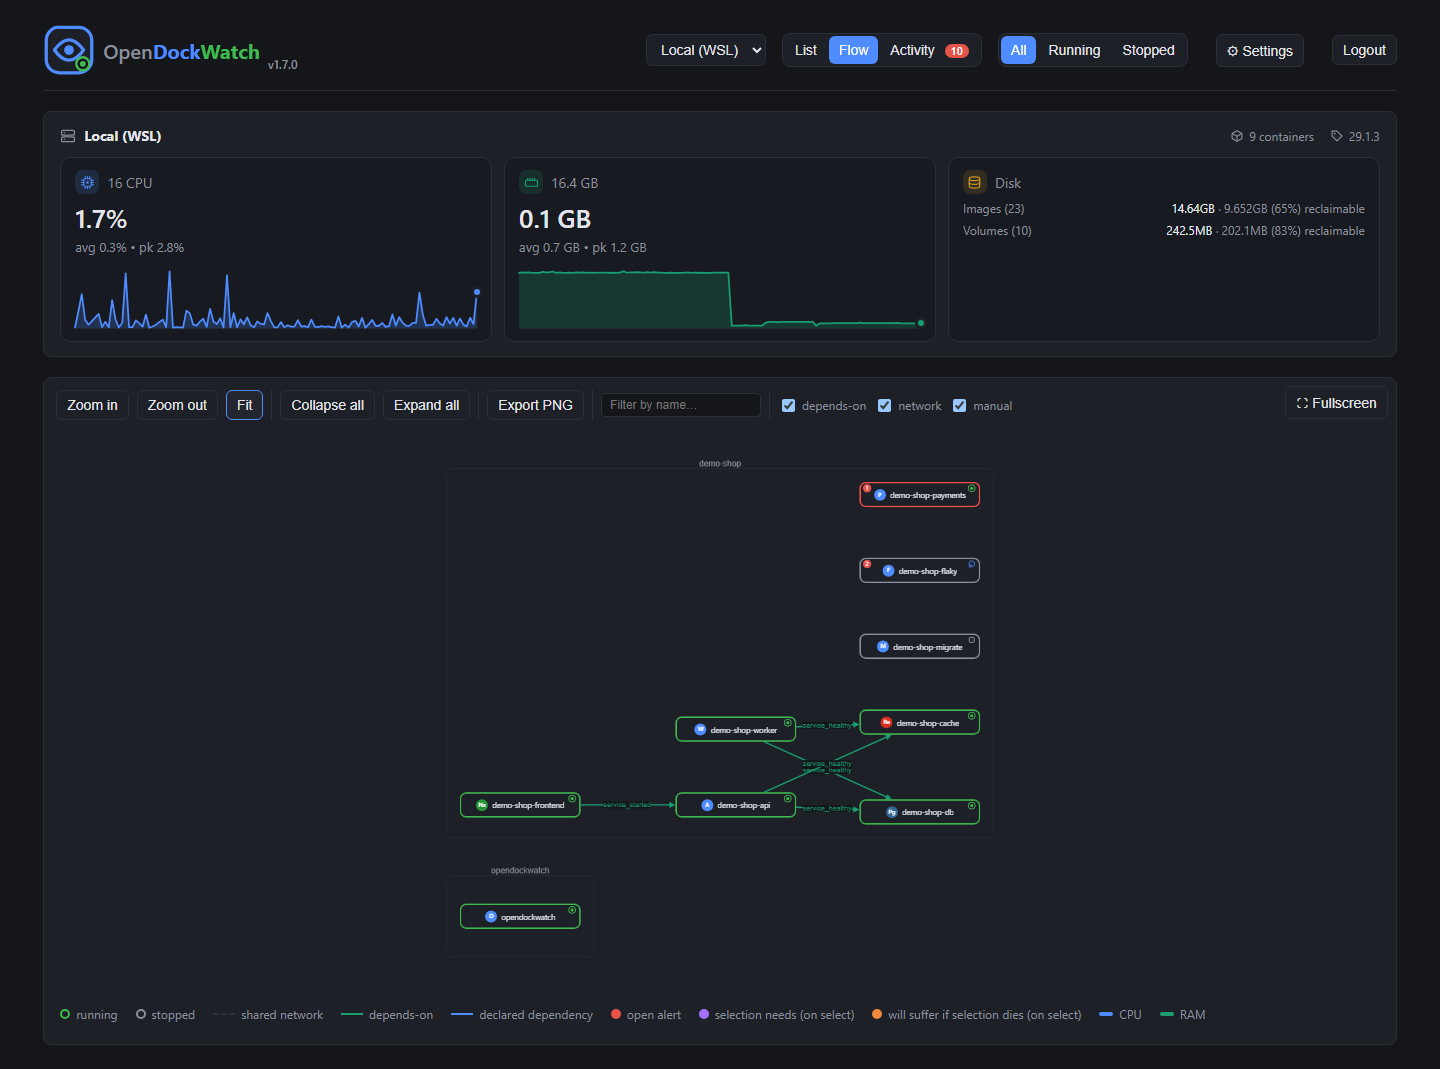
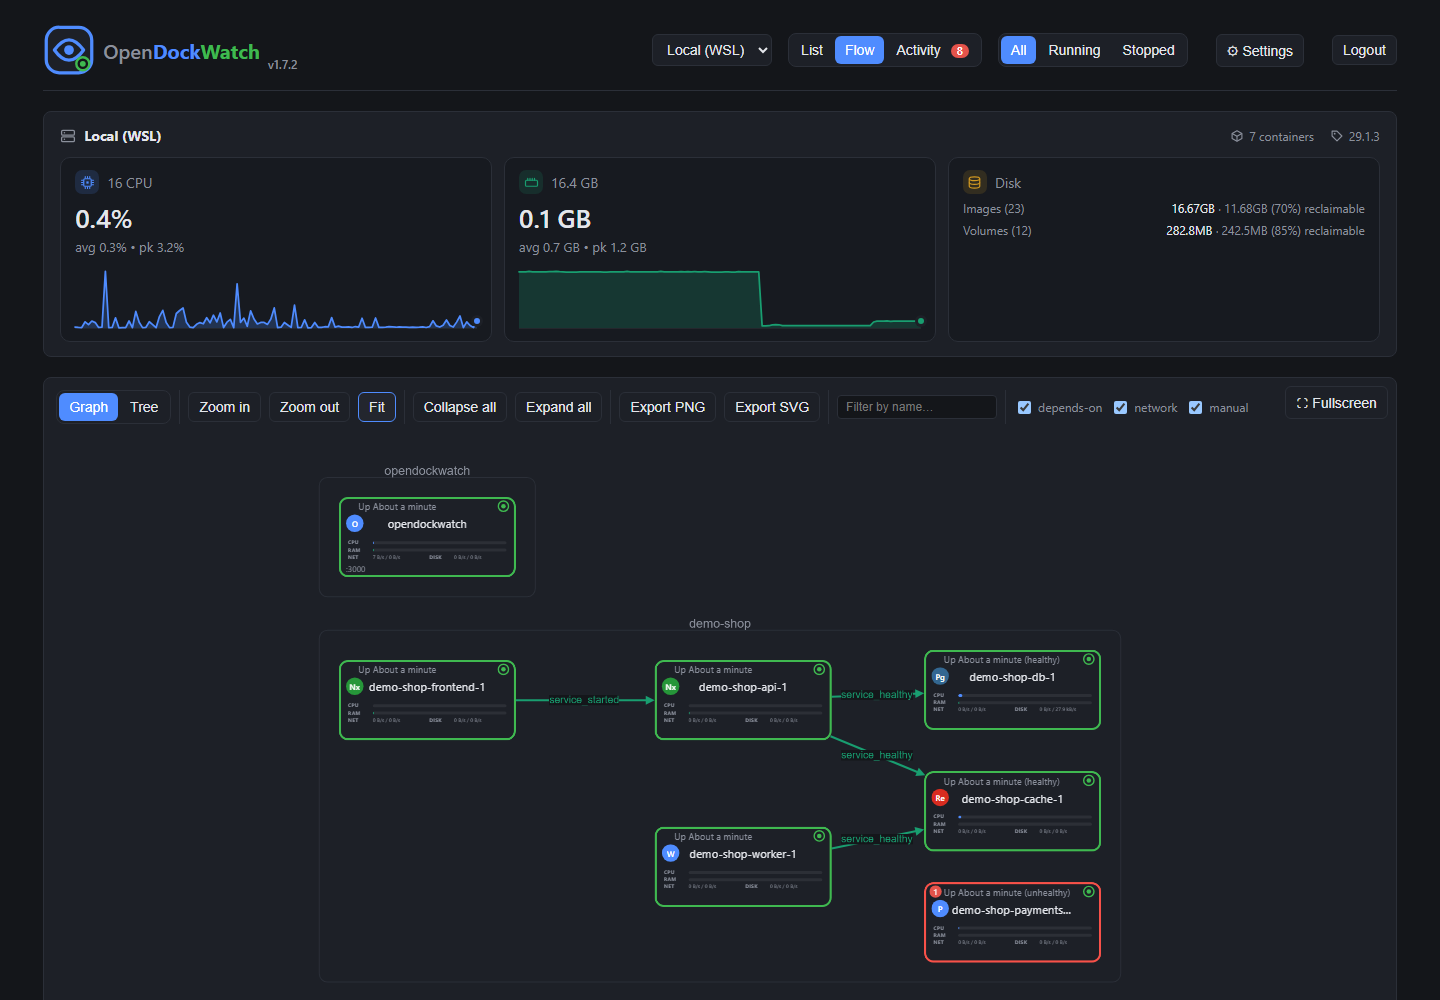
Refresh Flow view screenshots (multi-service demo stack) and update DOCKERHUB.md to match the README's SVG export and Tree mode feature descriptions. Add a tree-view screenshot to both docs.

diff --git a/README.md b/README.md
@@ -5,13 +5,16 @@ A small self-hosted Docker dashboard: containers grouped by Compose project, CPU
 ## Features
 
 - **List view** — containers grouped by `docker compose` project (collapsible), with live CPU/memory columns, a one-click Logs button straight to the Log Viewer, and Start/Stop/Restart actions. Filter by All / Running / Stopped.
-- **Flow view** — a graph of containers, grouped visually by compose project, with zoom/fit controls, a name filter, per-edge-kind toggles, PNG export, and a Fullscreen toggle that hides the host stats card so the graph gets the room. Nodes show a state indicator, an uptime/status string, live CPU/RAM bars, network/disk I/O as current rates (not lifetime totals), published ports, and a badge for open alerts.
+- **Flow view** — a graph of containers, grouped visually by compose project, with zoom/fit controls, a name filter, per-edge-kind toggles, PNG/SVG export, and a Fullscreen toggle that hides the host stats card so the graph gets the room. Nodes show a state indicator, an uptime/status string, live CPU/RAM bars, network/disk I/O as current rates (not lifetime totals), published ports, and a badge for open alerts.
+  - **PNG export** — captures exactly what's currently framed on screen (zoom/pan in first to crop to a specific area), at 2x pixel density for crisp text and lines.
+  - **SVG export** — a vector alternative with no fixed size/resolution ceiling, drawn directly from the graph's own layout data rather than screenshotting the page, and always covers the whole graph regardless of current zoom/pan. Better for a host running a lot of compose projects: scales losslessly to any zoom level and stays a small file regardless of how big the graph gets.
   - **Compose-group collapse** — collapse a group to a single aggregate box (container count, summed CPU/RAM, worst health, total open alerts) via the +/- cue on the group or the Collapse/Expand-all buttons — drilling into a large host ArgoCD-style instead of staring at a hairball.
   - **Blast-radius selection** — selecting a node walks its `depends_on` chain both directions and tints the result: what it needs to be healthy (upstream) and what breaks if it dies (downstream) get distinct colors, with everything else dimmed — not just the immediate neighborhood.
   - **Semantic zoom** — below native size, nodes switch to a compact state/icon/name rendering instead of shrinking their full metrics down to unreadable, one zoom-in gesture away from the rest.
   - **Depends-on edges**: read straight from Compose's own `com.docker.compose.depends_on` label (service + startup condition), so it reflects the real `depends_on:` block — no compose file parsing needed, and it works for remote SSH hosts too.
   - **Auto (network) edges**: containers sharing a custom Docker network are connected, labeled with the network's name — but only across different compose projects (or when at least one side isn't grouped). Same-project network edges are suppressed, since the group box already conveys that relationship.
   - **Manual edges**: declared in `hosts.json` (`edges: [{ from, to, label }]`) for relationships Docker can't see itself — e.g. a non-dockerized frontend calling a backend API, or cross-project dependencies.
+  - **Tree mode** — a Graph/Tree toggle switches to an ArgoCD-style `project → container → (network | volume)` layout instead: no compose-group boxes, just a left-to-right dependency tree. A network or volume shared by more than one container renders once and gets multiple incoming edges, so shared infrastructure is immediately obvious. Container boxes are the same live nodes as Graph mode (CPU/RAM, health, badges); tapping a network/mount pill fades the graph down to just the containers using it and shows which ones in the toolbar. Networks/volumes can each be hidden via their own toggle. Positions, camera, and the mode itself are all remembered per host.
 - **Details panel** — clicking a container (in either view) opens a side panel with status, image, CPU/mem, network/disk I/O rates, ports, networks, actions, and a small live log preview (last 100 lines). Created time, restart policy, environment variables, mounts, and labels — the things you'd otherwise `docker inspect` for — are one click away in collapsed sections.
 - **Log Viewer** — expand the preview into a full-width bottom panel with a tail-size selector (100/200/1000/5000 lines — capped, never loads unbounded history), level filters, and a live text filter that can be switched to regex matching (with a match count and invalid-pattern warning). The current tail can also be downloaded as a `.txt` file. Reachable from the details panel or directly via the Logs button on any row in List view.
 - **Activity view** — alerts and the raw container event log (start/stop/die/oom, etc.) side by side, each independently searchable and scrollable, with an unread-alert count badge on the tab itself and a checkmark on any alert you've acknowledged. See [Alerts](#alerts) below for the rule list and webhook setup.
@@ -33,6 +36,10 @@ A small self-hosted Docker dashboard: containers grouped by Compose project, CPU
 **Compose-group collapse** — drill into a large host ArgoCD-style instead of staring at a hairball
 
 ![Flow view with a compose group collapsed into a single aggregate box showing container count, CPU/RAM, and health](screenshots/flow-collapsed.png)
+
+**Tree mode** — an ArgoCD-style `project → container → network/volume` DAG; a network or volume shared by more than one container renders once with multiple incoming edges
+
+![Flow view in tree mode, showing compose projects fanning out to containers which fan out to shared network and volume/bind-mount pills](screenshots/flow-tree-view.png)
 
 **Details panel** — status, image, CPU/mem, network/disk rates, ports, networks, actions, a live log preview, and `docker inspect` details (environment, mounts, labels, restart policy) a click away
 

diff --git a/DOCKERHUB.md b/DOCKERHUB.md
@@ -60,7 +60,7 @@ services:
 ## Features
 
 - **List view** — containers grouped by Compose project, live CPU/memory columns, a one-click Logs button straight to the Log Viewer, and Start/Stop/Restart.
-- **Flow view** — a topology graph with automatic edges for shared Docker networks (only across different Compose projects, to avoid clutter) and real Compose `depends_on` relationships, plus manually declared edges for anything Docker can't see itself. Live CPU/mem bars, network/disk rates, port badges, open-alert badges, a name filter, PNG export, and a Fullscreen toggle. Select a node to tint what it needs and what breaks if it dies, walking the real `depends_on` chain both directions. Collapse a Compose group to one aggregate box for large hosts, and zoom out to a compact view instead of shrinking metrics unreadable.
+- **Flow view** — a topology graph with automatic edges for shared Docker networks (only across different Compose projects, to avoid clutter) and real Compose `depends_on` relationships, plus manually declared edges for anything Docker can't see itself. Live CPU/mem bars, network/disk rates, port badges, open-alert badges, a name filter, PNG/SVG export, and a Fullscreen toggle. Select a node to tint what it needs and what breaks if it dies, walking the real `depends_on` chain both directions. Collapse a Compose group to one aggregate box for large hosts, and zoom out to a compact view instead of shrinking metrics unreadable. A Graph/Tree toggle switches to an ArgoCD-style `project → container → network/volume` DAG, with shared networks/volumes deduped to one node with multiple incoming edges.
 - **Details panel** — status, stats, ports, and `docker inspect` details (env vars, mounts, labels, restart policy) a click away — plus a full-width **Log Viewer** with level filters, live tailing over Server-Sent Events, and download.
 - **Alerts** — container crashed / crash-looping / unhealthy / host unreachable out of the box, plus opt-in CPU / memory / disk-usage threshold rules. Optional push notification via webhook (Discord, ntfy, Gotify, Slack, or generic JSON).
 - Works against the local socket and any number of remote hosts over SSH — no agents to install anywhere.
@@ -74,6 +74,8 @@ services:
 ![Flow view with a node selected, tinting its upstream dependencies purple and downstream dependents orange](https://raw.githubusercontent.com/DarkS1D3R/OpenDockWatch/main/screenshots/flow-blast-radius.png)
 
 ![Flow view with a compose group collapsed into a single aggregate box showing container count, CPU/RAM, and health](https://raw.githubusercontent.com/DarkS1D3R/OpenDockWatch/main/screenshots/flow-collapsed.png)
+
+![Flow view in tree mode, showing compose projects fanning out to containers which fan out to shared network and volume/bind-mount pills](https://raw.githubusercontent.com/DarkS1D3R/OpenDockWatch/main/screenshots/flow-tree-view.png)
 
 ![Container details panel with a live log preview and expanded environment/labels sections](https://raw.githubusercontent.com/DarkS1D3R/OpenDockWatch/main/screenshots/details-panel.png)
 